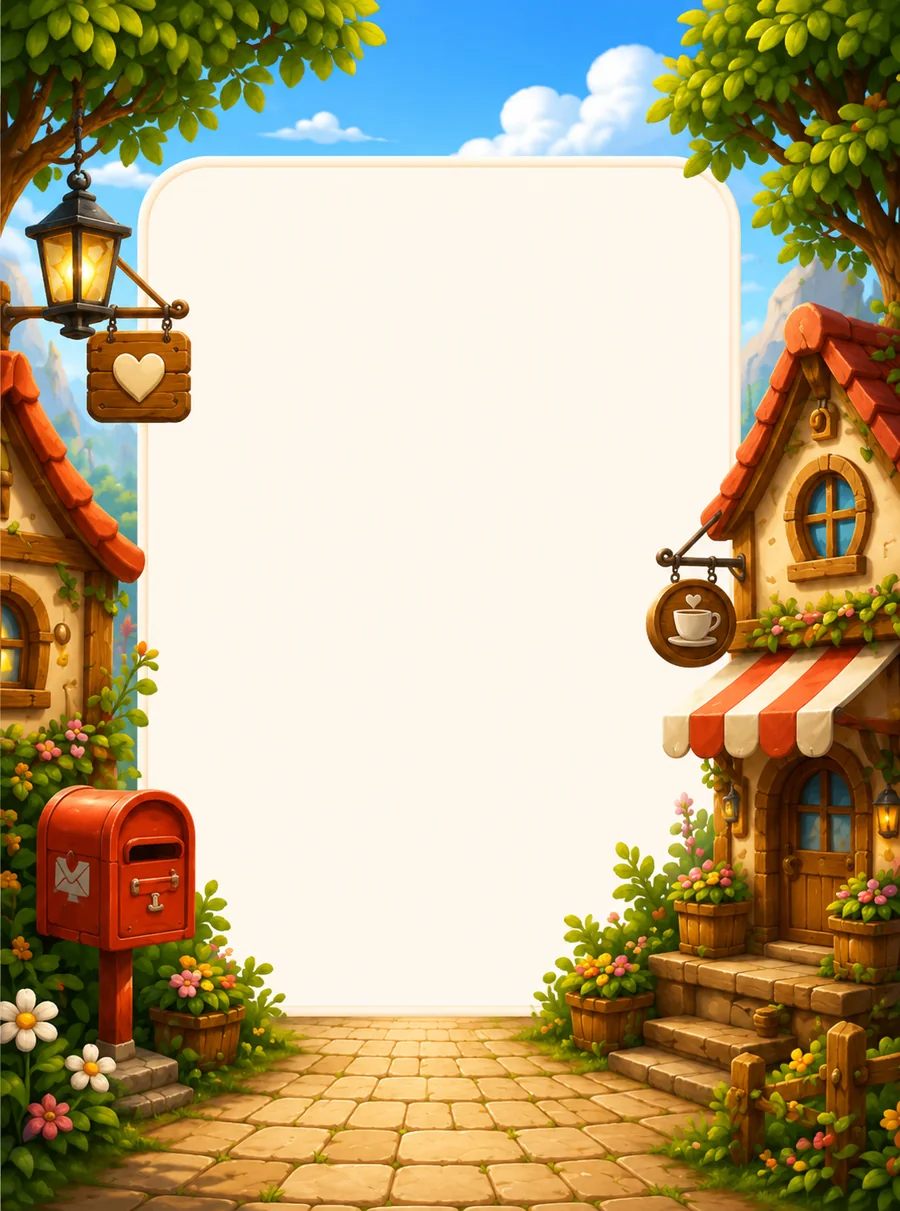
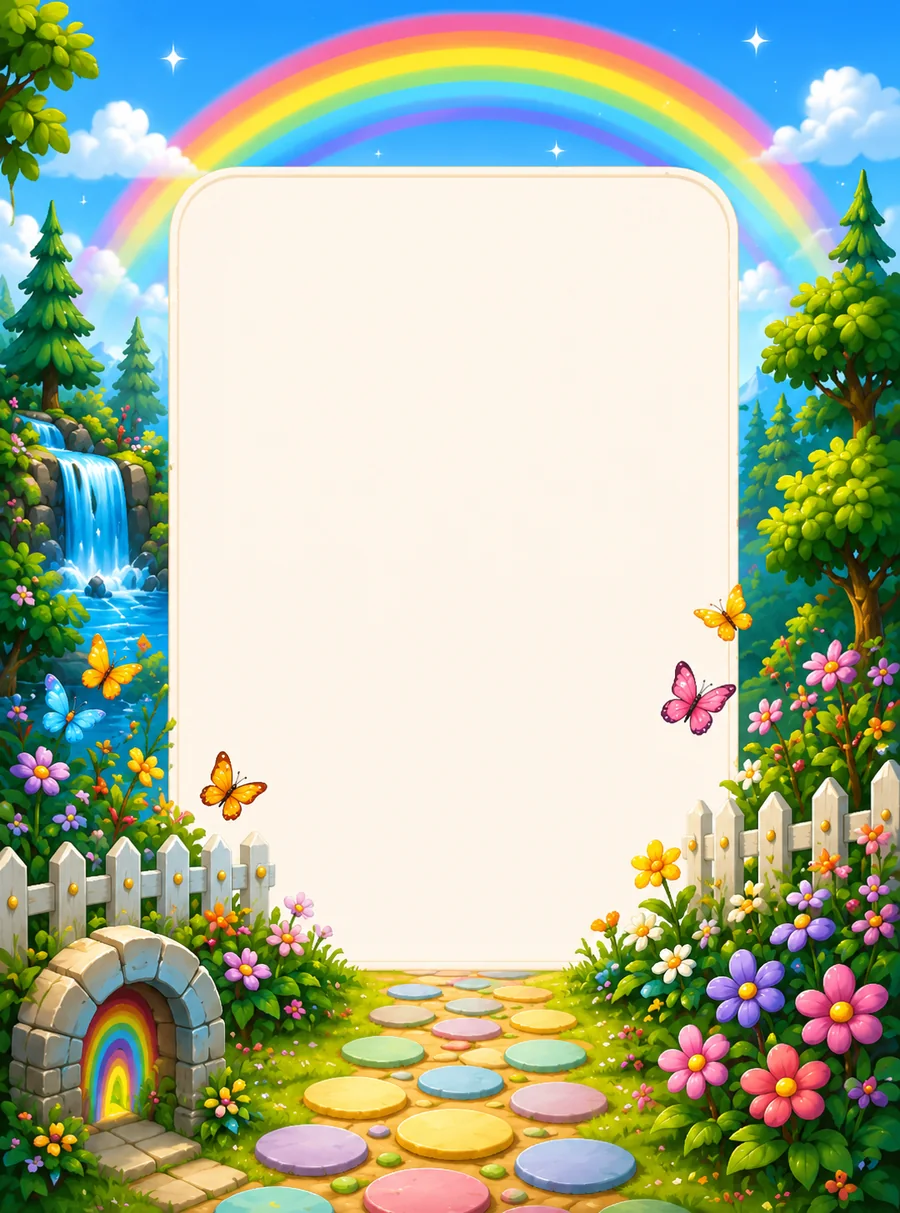
內頁底圖改依世界對應(4張世界框:彩虹谷L1-2/友善小鎮L3-4/海洋灣L5-6/故事城堡L7-8);內容區依各級面板座標自動對齊(PANEL常數);L3驗證

diff --git a/src/components/mission/Discover.tsx b/src/components/mission/Discover.tsx
@@ -23,6 +23,18 @@ interface Props {
 
 type Phase = 'video' | 'story' | 'words' | 'phonics' | 'sentences';
 
+// 各級內頁底圖的米色面板範圍（世界框共用：L1-2 彩虹谷／L3-4 友善小鎮／L5-6 海洋灣／L7-8 故事城堡）
+const PANEL: Record<number, { left: string; right: string; top: string; bottom: string }> = {
+  1: { left: '23%', right: '22%', top: '18%', bottom: '27%' },
+  2: { left: '23%', right: '22%', top: '18%', bottom: '27%' },
+  3: { left: '22%', right: '26%', top: '17%', bottom: '26%' },
+  4: { left: '22%', right: '26%', top: '17%', bottom: '26%' },
+  5: { left: '21%', right: '27%', top: '17%', bottom: '25%' },
+  6: { left: '21%', right: '27%', top: '17%', bottom: '25%' },
+  7: { left: '30%', right: '24%', top: '16%', bottom: '30%' },
+  8: { left: '30%', right: '24%', top: '16%', bottom: '30%' },
+};
+
 // YouTube 網址 → embed 網址
 function youtubeEmbed(url: string): string | null {
   const m = url.match(/(?:youtu\.be\/|youtube\.com\/(?:watch\?v=|embed\/|shorts\/))([\w-]{11})/);
@@ -280,8 +292,8 @@ export default function Discover({ level, story, words, sentences, phonicsLetter
                 onError={() => setContentOk(false)}
                 className="absolute inset-0 w-full h-full object-cover"
               />
-              {/* 內容區（米色面板範圍）：只放場景 + 課文 */}
-              <div className="absolute flex flex-col" style={{ left: '22%', right: '19.5%', top: '16.5%', bottom: '23%' }}>
+              {/* 內容區（米色面板範圍，各級底圖框位置不同）：只放場景 + 課文 */}
+              <div className="absolute flex flex-col" style={PANEL[level] || PANEL[1]}>
                 {/* 場景插畫 */}
                 <div className="text-center">
                   <div className="text-6xl sm:text-7xl mb-1">{scene.image}</div>
